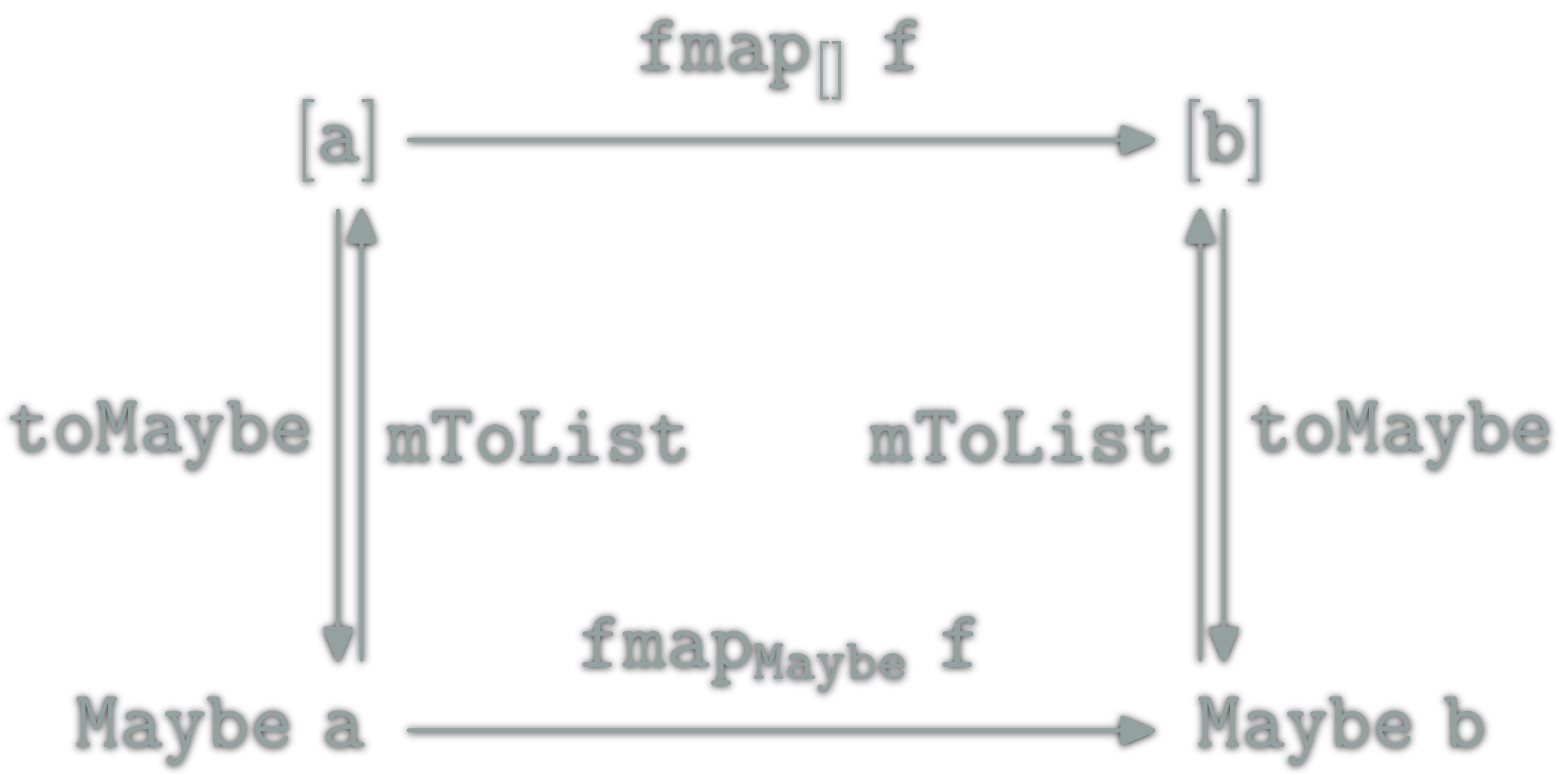
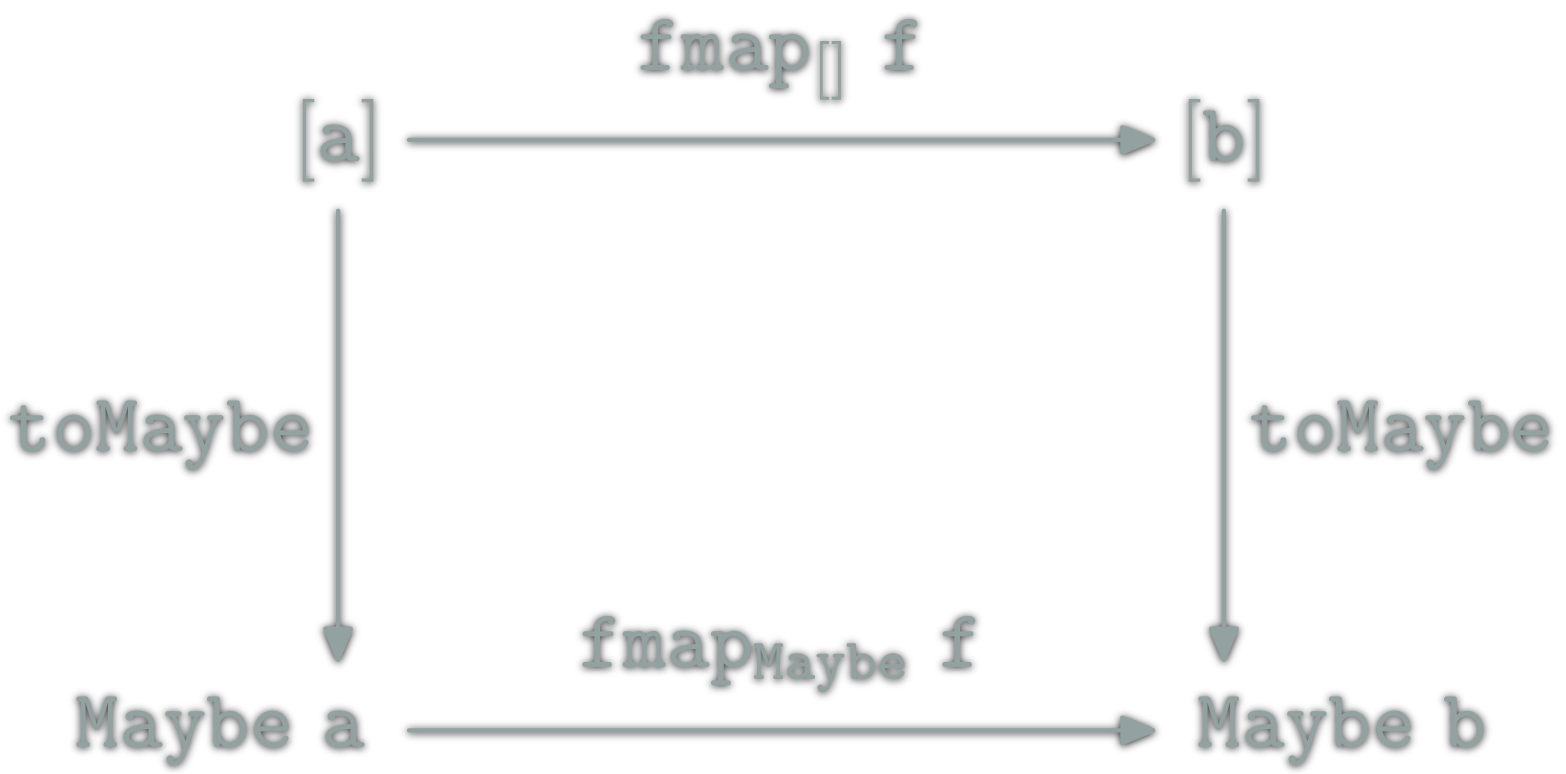
updated organization

Changed region(s): [[0.5517, 0.2791, 0.7969, 0.8372], [0.2146, 0.2481, 0.4598, 0.8682]]

diff --git a/categories.html b/categories.html
@@ -648,20 +648,26 @@ Haskell types is fractal:</p>
 </li></ul>
 </section>
 <section class="slide">
-<h2 id="category-of-endofunctors">Category of Endofunctors</h2>
-<p>All endofunctors of \(\C\) form the category \(\E_\C\) of endofunctors of \(\C\).</p>
-<img src="categories/img/mp/natural-transformation.png" alt="Natural transformation commutative diagram" class="right"/>
-<ul>
-<li>\(\ob{\E_\C}\): endofunctors of \(\C\) ; \(F:\C→\C\)</li>
-<li>\(\hom{\E_\C}\): natural transformations
-<ul>
-<li>η familly \(η_X\in\hom{\C}\) for \(X\in\ob{\C}\) s.t.</li>
-<li>for Haskell functors: <code>F a -&gt; G a</code>.<br />Rearragement functions only.</li>
-</ul></li>
-</ul>
+<h2 id="category-of-hask-endofunctors">Category of \(\Hask\) Endofunctors</h2>
+<img src="categories/img/mp/cat-hask-endofunctor.png" alt="Category of Hask endofunctors" />
 </section>
 <section class="slide">
-<h2 id="natural-transformation-examples-13">Natural Transformation Examples (1/3)</h2>
+<h2 id="category-of-functors">Category of Functors</h2>
+<p>If \(\C\) is <em>small</em> (\(\hom{\C}\) is a set). All functors from \(\C\) to some category \(\D\) form the category \(\mathrm{Func}(\C,\D)\).</p>
+<img src="categories/img/mp/natural-transformation.png" alt="Natural transformation commutative diagram" class="right"/>
+<ul>
+<li>\(\ob{\mathrm{Func}(\C,\D)}\): Functors \(F:\C→\D\)</li>
+<li>\(\hom{\mathrm{Func}(\C,\D)}\): <em>natural transformations</em>
+<ul>
+<li>η familly \(η_X\in\hom{\D}\) for \(X\in\ob{\C}\) s.t.</li>
+<li>ex: between Haskel functors; <code>F a -&gt; G a</code><br />Rearragement functions only.</li>
+</ul></li>
+<li>∘: Functor composition</li>
+</ul>
+<p>\(\mathrm{Func}(\C,\C)\) is the category of endofunctors of \(\C\).</p>
+</section>
+<section class="slide">
+<h2 id="natural-transformation-examples-14">Natural Transformation Examples (1/4)</h2>
 <pre><code class="haskell">data Tree a = Empty | Node a [Tree a]
 toTree :: [a] -> Tree a
 toTree [] = Empty
@@ -676,7 +682,7 @@ toTree (x:xs) = Node x [toTree xs]</pre>
 
 </section>
 <section class="slide">
-<h2 id="natural-transformation-examples-23">Natural Transformation Examples (2/3)</h2>
+<h2 id="natural-transformation-examples-24">Natural Transformation Examples (2/4)</h2>
 <pre><code class="haskell">data Tree a = Empty | Node a [Tree a]
 toList :: Tree a -> [a]
 toList Empty = []
@@ -691,17 +697,29 @@ toList (Node x l) = [x] ++ concat (map toList l)</pre>
 
 </section>
 <section class="slide">
-<h2 id="natural-transformation-examples-33">Natural Transformation Examples (3/3)</h2>
-<pre><code class="haskell">
-toMaybe :: [a] -> Maybe a   ;   mToList :: Maybe a -> [a]
-toMaybe [] = Nothing        ;   mToList Nothing = []
-toMaybe (x:xs) = Just x     ;   mToList Just x  = [x]
-</pre>
+<h2 id="natural-transformation-examples-34">Natural Transformation Examples (3/4)</h2>
+<pre><code class="haskell">toMaybe :: [a] -> Maybe a
+toMaybe [] = Nothing
+toMaybe (x:xs) = Just x</pre>
 </code>
 <p><code>toMaybe</code> is a natural transformation. It is also a morphism from <code>[]</code> to <code>Maybe</code> in the Category of \(\) endofunctors.</p>
 <img style="float:left;width:50%" src="categories/img/mp/nattrans-list-maybe.png" alt="natural transformation commutative diagram"/>
 <figure style="float:right;width:40%">
-<img src="categories/img/mp/list-maybe-endofunctor-morphism.png" alt="natural transformation commutative diagram"/> <figcaption>There is <span class="red">no isomorphism</span>.<br/> Hint: <code>Bool</code> lists longer than 1. </figcaption>
+<img src="categories/img/mp/list-maybe-endofunctor-morphism.png" alt="natural transformation commutative diagram"/>
+</figure>
+
+
+</section>
+<section class="slide">
+<h2 id="natural-transformation-examples-44">Natural Transformation Examples (4/4)</h2>
+<pre><code class="haskell">mToList :: Maybe a -> [a]
+mToList Nothing = []
+mToList Just x  = [x]</pre>
+</code>
+<p><code>toMaybe</code> is a natural transformation. It is also a morphism from <code>[]</code> to <code>Maybe</code> in the Category of \(\) endofunctors.</p>
+<img style="float:left;width:50%" src="categories/img/mp/nattrans-maybe-list.png" alt="natural transformation commutative diagram"/>
+<figure style="float:right;width:40%">
+<img src="categories/img/mp/maybe-list-endofunctor-morphsm.png" alt="relation between [] and Maybe"/> <figcaption>There is <span class="red">no isomorphism</span>.<br/> Hint: <code>Bool</code> lists longer than 1. </figcaption>
 </figure>
 
 

diff --git a/categories/30_How/180_Natural_Transformation_Examples_1_4.html b/categories/30_How/180_Natural_Transformation_Examples_1_4.html
@@ -1,16 +1,13 @@
-Natural Transformation Examples (1/3)
-------------------------------------
-
+<h2 id="natural-transformation-examples-14">Natural Transformation Examples (1/4)</h2>
 <pre><code class="haskell">data Tree a = Empty | Node a [Tree a]
 toTree :: [a] -> Tree a
 toTree [] = Empty
-toTree (x:xs) = Node x [toTree xs]</pre></code>
-
-
-`toTree` is a natural transformation.
-It is also a morphism from `[]` to `Tree` in the Category of \\(\Hask\\) endofunctors.
-
+toTree (x:xs) = Node x [toTree xs]</pre>
+</code>
+<p><code>toTree</code> is a natural transformation. It is also a morphism from <code>[]</code> to <code>Tree</code> in the Category of \(\) endofunctors.</p>
 <img style="float:left;width:50%" src="categories/img/mp/nattrans-list-tree.png" alt="natural transformation commutative diagram"/>
 <figure style="float:right;width:40%">
 <img src="categories/img/mp/list-tree-endofunctor-morphism.png" alt="natural transformation commutative diagram"/>
 </figure>
+
+

diff --git a/categories/30_How/210_Natural_Transformation_Examples_4_4.html b/categories/30_How/210_Natural_Transformation_Examples_4_4.html
@@ -1,0 +1,12 @@
+<h2 id="natural-transformation-examples-44">Natural Transformation Examples (4/4)</h2>
+<pre><code class="haskell">mToList :: Maybe a -> [a]
+mToList Nothing = []
+mToList Just x  = [x]</pre>
+</code>
+<p><code>toMaybe</code> is a natural transformation. It is also a morphism from <code>[]</code> to <code>Maybe</code> in the Category of \(\) endofunctors.</p>
+<img style="float:left;width:50%" src="categories/img/mp/nattrans-maybe-list.png" alt="natural transformation commutative diagram"/>
+<figure style="float:right;width:40%">
+<img src="categories/img/mp/maybe-list-endofunctor-morphsm.png" alt="relation between [] and Maybe"/> <figcaption>There is <span class="red">no isomorphism</span>.<br/> Hint: <code>Bool</code> lists longer than 1. </figcaption>
+</figure>
+
+

diff --git a/categories/30_How/170_Category_of_Functors.html b/categories/30_How/170_Category_of_Functors.html
@@ -1,0 +1,13 @@
+<h2 id="category-of-functors">Category of Functors</h2>
+<p>If \(\C\) is <em>small</em> (\(\hom{\C}\) is a set). All functors from \(\C\) to some category \(\D\) form the category \(\mathrm{Func}(\C,\D)\).</p>
+<img src="categories/img/mp/natural-transformation.png" alt="Natural transformation commutative diagram" class="right"/>
+<ul>
+<li>\(\ob{\mathrm{Func}(\C,\D)}\): Functors \(F:\C→\D\)</li>
+<li>\(\hom{\mathrm{Func}(\C,\D)}\): <em>natural transformations</em>
+<ul>
+<li>η familly \(η_X\in\hom{\D}\) for \(X\in\ob{\C}\) s.t.</li>
+<li>ex: between Haskel functors; <code>F a -&gt; G a</code><br />Rearragement functions only.</li>
+</ul></li>
+<li>∘: Functor composition</li>
+</ul>
+<p>\(\mathrm{Func}(\C,\C)\) is the category of endofunctors of \(\C\).</p>

diff --git a/categories/30_How/200_Natural_Transformation_Examples_3_4.html b/categories/30_How/200_Natural_Transformation_Examples_3_4.html
@@ -1,0 +1,12 @@
+<h2 id="natural-transformation-examples-34">Natural Transformation Examples (3/4)</h2>
+<pre><code class="haskell">toMaybe :: [a] -> Maybe a
+toMaybe [] = Nothing
+toMaybe (x:xs) = Just x</pre>
+</code>
+<p><code>toMaybe</code> is a natural transformation. It is also a morphism from <code>[]</code> to <code>Maybe</code> in the Category of \(\) endofunctors.</p>
+<img style="float:left;width:50%" src="categories/img/mp/nattrans-list-maybe.png" alt="natural transformation commutative diagram"/>
+<figure style="float:right;width:40%">
+<img src="categories/img/mp/list-maybe-endofunctor-morphism.png" alt="natural transformation commutative diagram"/>
+</figure>
+
+

diff --git a/categories/30_How/190_Natural_Transformation_Examples_2_4.html b/categories/30_How/190_Natural_Transformation_Examples_2_4.html
@@ -1,4 +1,4 @@
-<h2 id="natural-transformation-examples-23">Natural Transformation Examples (2/3)</h2>
+<h2 id="natural-transformation-examples-24">Natural Transformation Examples (2/4)</h2>
 <pre><code class="haskell">data Tree a = Empty | Node a [Tree a]
 toList :: Tree a -> [a]
 toList Empty = []

diff --git a/categories/30_How/160_Category_of_Hask_Endofunctors.html b/categories/30_How/160_Category_of_Hask_Endofunctors.html
@@ -1,0 +1,2 @@
+<h2 id="category-of-hask-endofunctors">Category of \(\Hask\) Endofunctors</h2>
+<img src="categories/img/mp/cat-hask-endofunctor.png" alt="Category of Hask endofunctors" />
